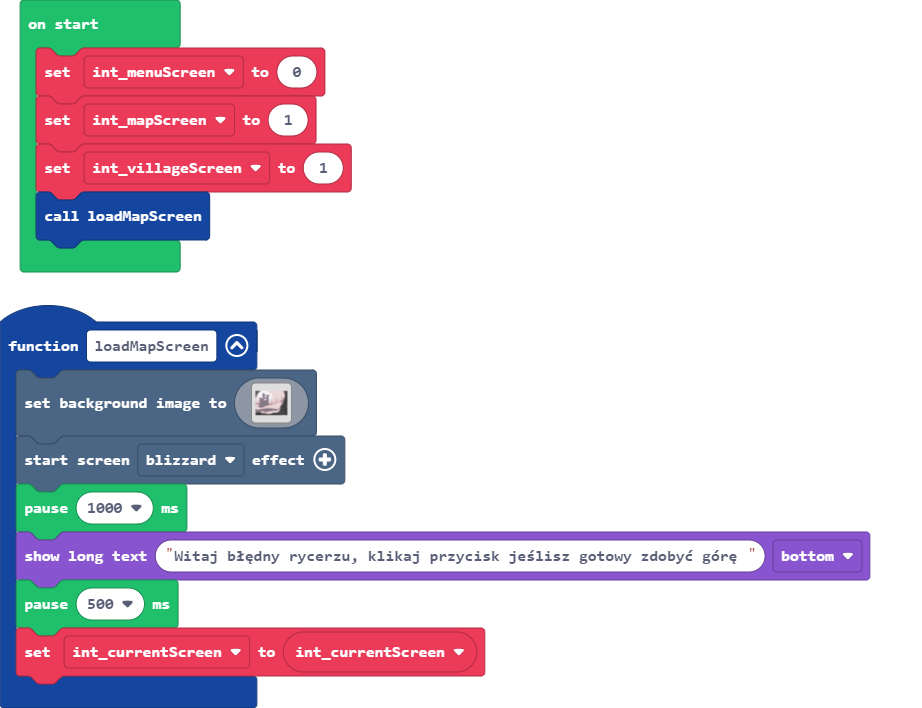
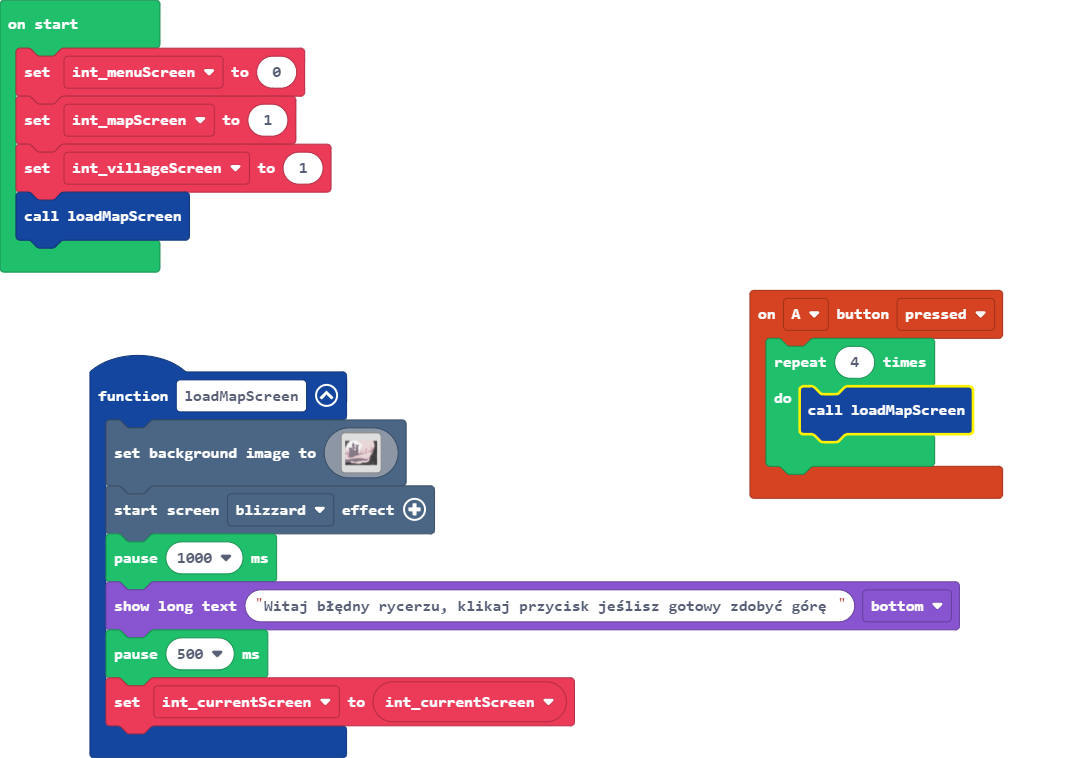
Update main.blocks, main.ts

Changed region(s): [[0.0, 0.0, 0.9718, 1.0], [0.6681, 0.3729, 0.9414, 0.6836]]

diff --git a/main.ts b/main.ts
@@ -1,3 +1,8 @@
+controller.A.onEvent(ControllerButtonEvent.Pressed, function () {
+    for (let index = 0; index < 4; index++) {
+        loadMapScreen()
+    }
+})
 function loadMapScreen () {
     scene.setBackgroundImage(img`
[1 lines of base64/hex data omitted]
@@ -132,4 +137,3 @@ let int_menuScreen = 0
 let int_mapScreen = 1
 let int_villageScreen = 1
 loadMapScreen()
-
